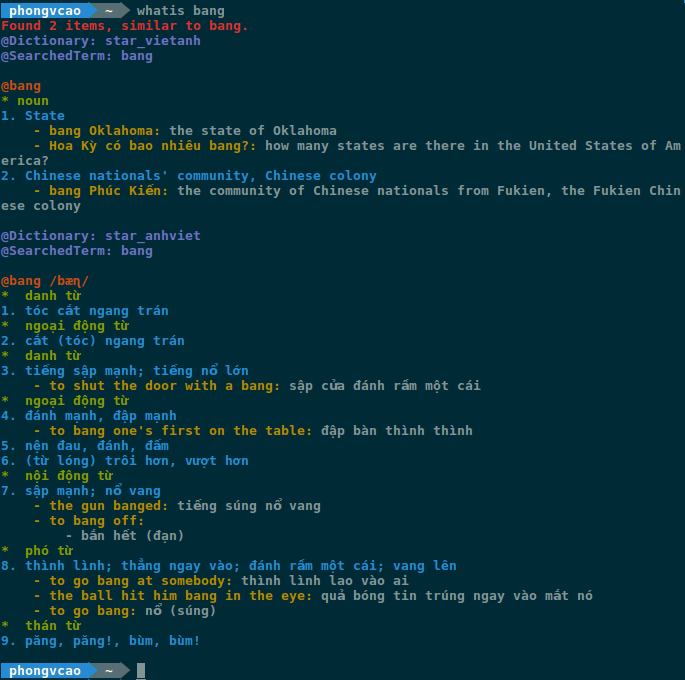
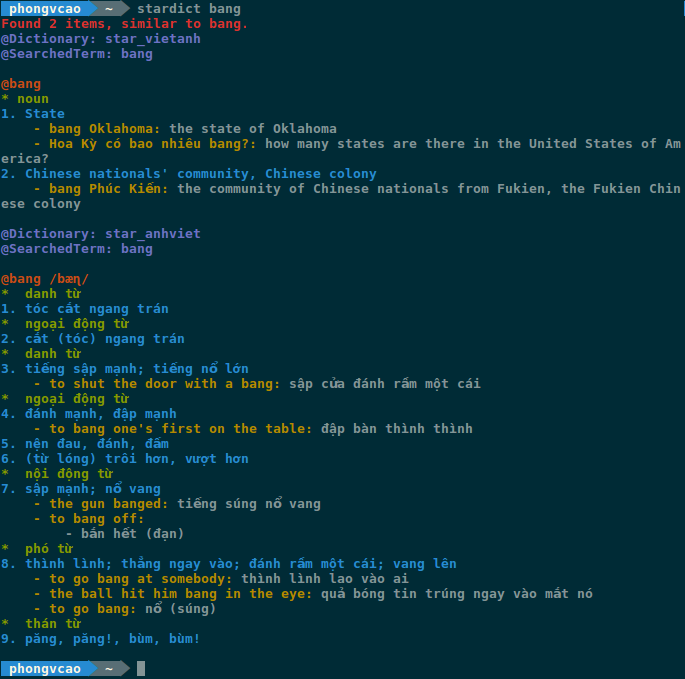
- Changed screenshot for Bash

diff --git a/README.md b/README.md
@@ -25,7 +25,7 @@ Lookup word in a :vsplit (using :StarDict command)
 
 Lookup word in Bash (using 'stardict' command)
 ---------------
-![Using vim-stardict from Bash](http://www.mediafire.com/convkey/830c/jasp8h8pimlhbat6g.jpg)
+![Using vim-stardict from Bash](http://www.mediafire.com/convkey/c799/jasp8h8pimlhbat6g.jpg)
 
 Redirect Bash output to Vim (using 'vstardict' command)
 ---------------
